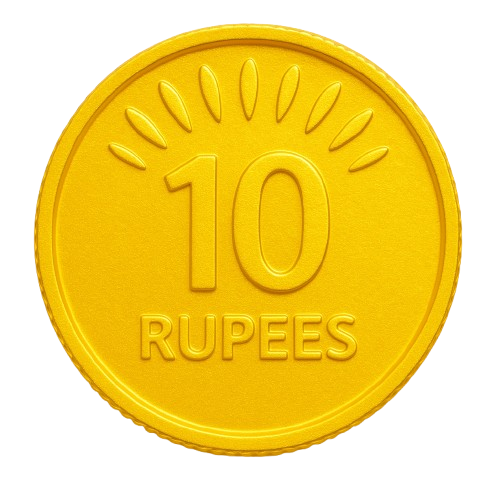
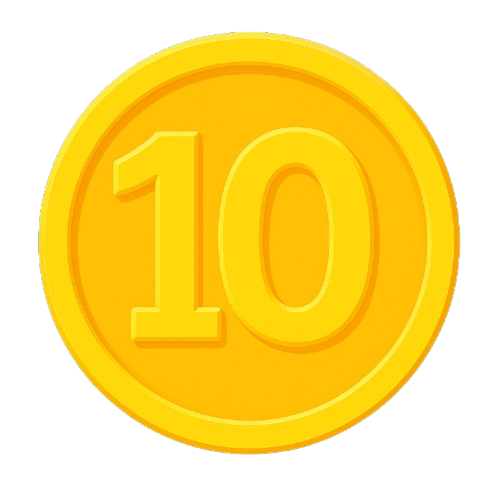
images changed

Changed region(s): [[0.06, 0.03, 0.93, 0.93], [0.57, 0.51, 0.6, 0.54]]

diff --git a/app/(tabs)/GameScreen.js b/app/(tabs)/GameScreen.js
@@ -62,6 +62,15 @@ const GameScreen = () => {
   const animations = setupAnimations();
   const { scaleAnim, winnerScale, confettiOpacity, resetFade } = animations;
   
+
+  if (isLoading) {
+    return (
+      <div className="loading-container">
+        <div className="spinner"></div>
+        <p>Connecting to server...</p>
+      </div>
+    );
+  }
   // Initialize all bets structure
   useEffect(() => {
     const initialAllBets = {};
@@ -156,7 +165,7 @@ const GameScreen = () => {
   }, [bets, winnerScale, confettiOpacity]);
 
   // Initialize server-synchronized game timer hook
-  const { gamePhase, phaseTimer, timerColor, isServerConnected } = useServerGameTimer(
+  const { gamePhase, phaseTimer, timerColor,isConnected, isLoading } = useServerGameTimer(
     handlePhaseChange,
     determineWinnerHandler
   );
@@ -370,7 +379,7 @@ const GameScreen = () => {
               phaseTimer={phaseTimer} 
               scaleAnim={scaleAnim} 
               timerColor={timerColor()} 
-              isServerConnected={isServerConnected}
+              isServerConnected={isConnected}
             />
              
             <TouchableOpacity 

diff --git a/constants/imageAssets.js b/constants/imageAssets.js
@@ -11,7 +11,12 @@ import cow from '../assets/images/cow.jpg';
 import bucket from '../assets/images/bucket.jpeg';
 import crow from '../assets/images/crow.jpg';
 import rabbit from '../assets/images/rabbit.jpg';
-import coin from '../assets/images/coin.png';
+import coin5 from '../assets/images/5.png';
+import coin10 from '../assets/images/10.png';
+import coin20 from '../assets/images/20.png';
+import coin50 from '../assets/images/50.png';
+import coin100 from '../assets/images/100.png';
+import coin500 from '../assets/images/500.png';
 import coin1 from '../assets/images/coin1.png';
 import walletIcon from '../assets/images/avtar.png';
 import ladyPresenter from '../assets/images/lady.png';
@@ -26,12 +31,12 @@ export const itemImages = [
 
 // Coin images - separate images for each denomination
 export const coinImages = {
-  5: coin,
-  10: coin,
-  20: coin,
-  30: coin,
-  70: coin,
-  100: coin,
+  5: coin5,
+  10: coin10,
+  20: coin20,
+  50: coin50,
+  100: coin100,
+  500: coin500,
 };
 
 // Generic placed bet coin image (visible to all users)

diff --git a/components/PreviousWinner.js b/components/PreviousWinner.js
@@ -22,7 +22,7 @@ const PreviousWinner = ({ prevWinnerIndex, previousWinners, winnersCount }) => {
           source={itemImages[displayIndex]} 
           style={styles.previousWinnerImage}
         />
-        <Text style={styles.previousWinnerName}>{itemNames[displayIndex]}</Text>
+        {/* <Text style={styles.previousWinnerName}>{itemNames[displayIndex]}</Text> */}
       </View>
       <Text style={styles.winnersCountText}>🏆 x{displayWinnersCount} winners</Text>
     </View>

diff --git a/styles/chipSelection.styles.js b/styles/chipSelection.styles.js
@@ -40,7 +40,7 @@ export const styles = StyleSheet.create({
   },
   selectedChip: {
     opacity: 1,
-    transform: [{ scale: 1.75 }],
+    transform: [{ scale: 1.5 }],
     elevation: 5, // For Android
   },
   disabledChip: {
